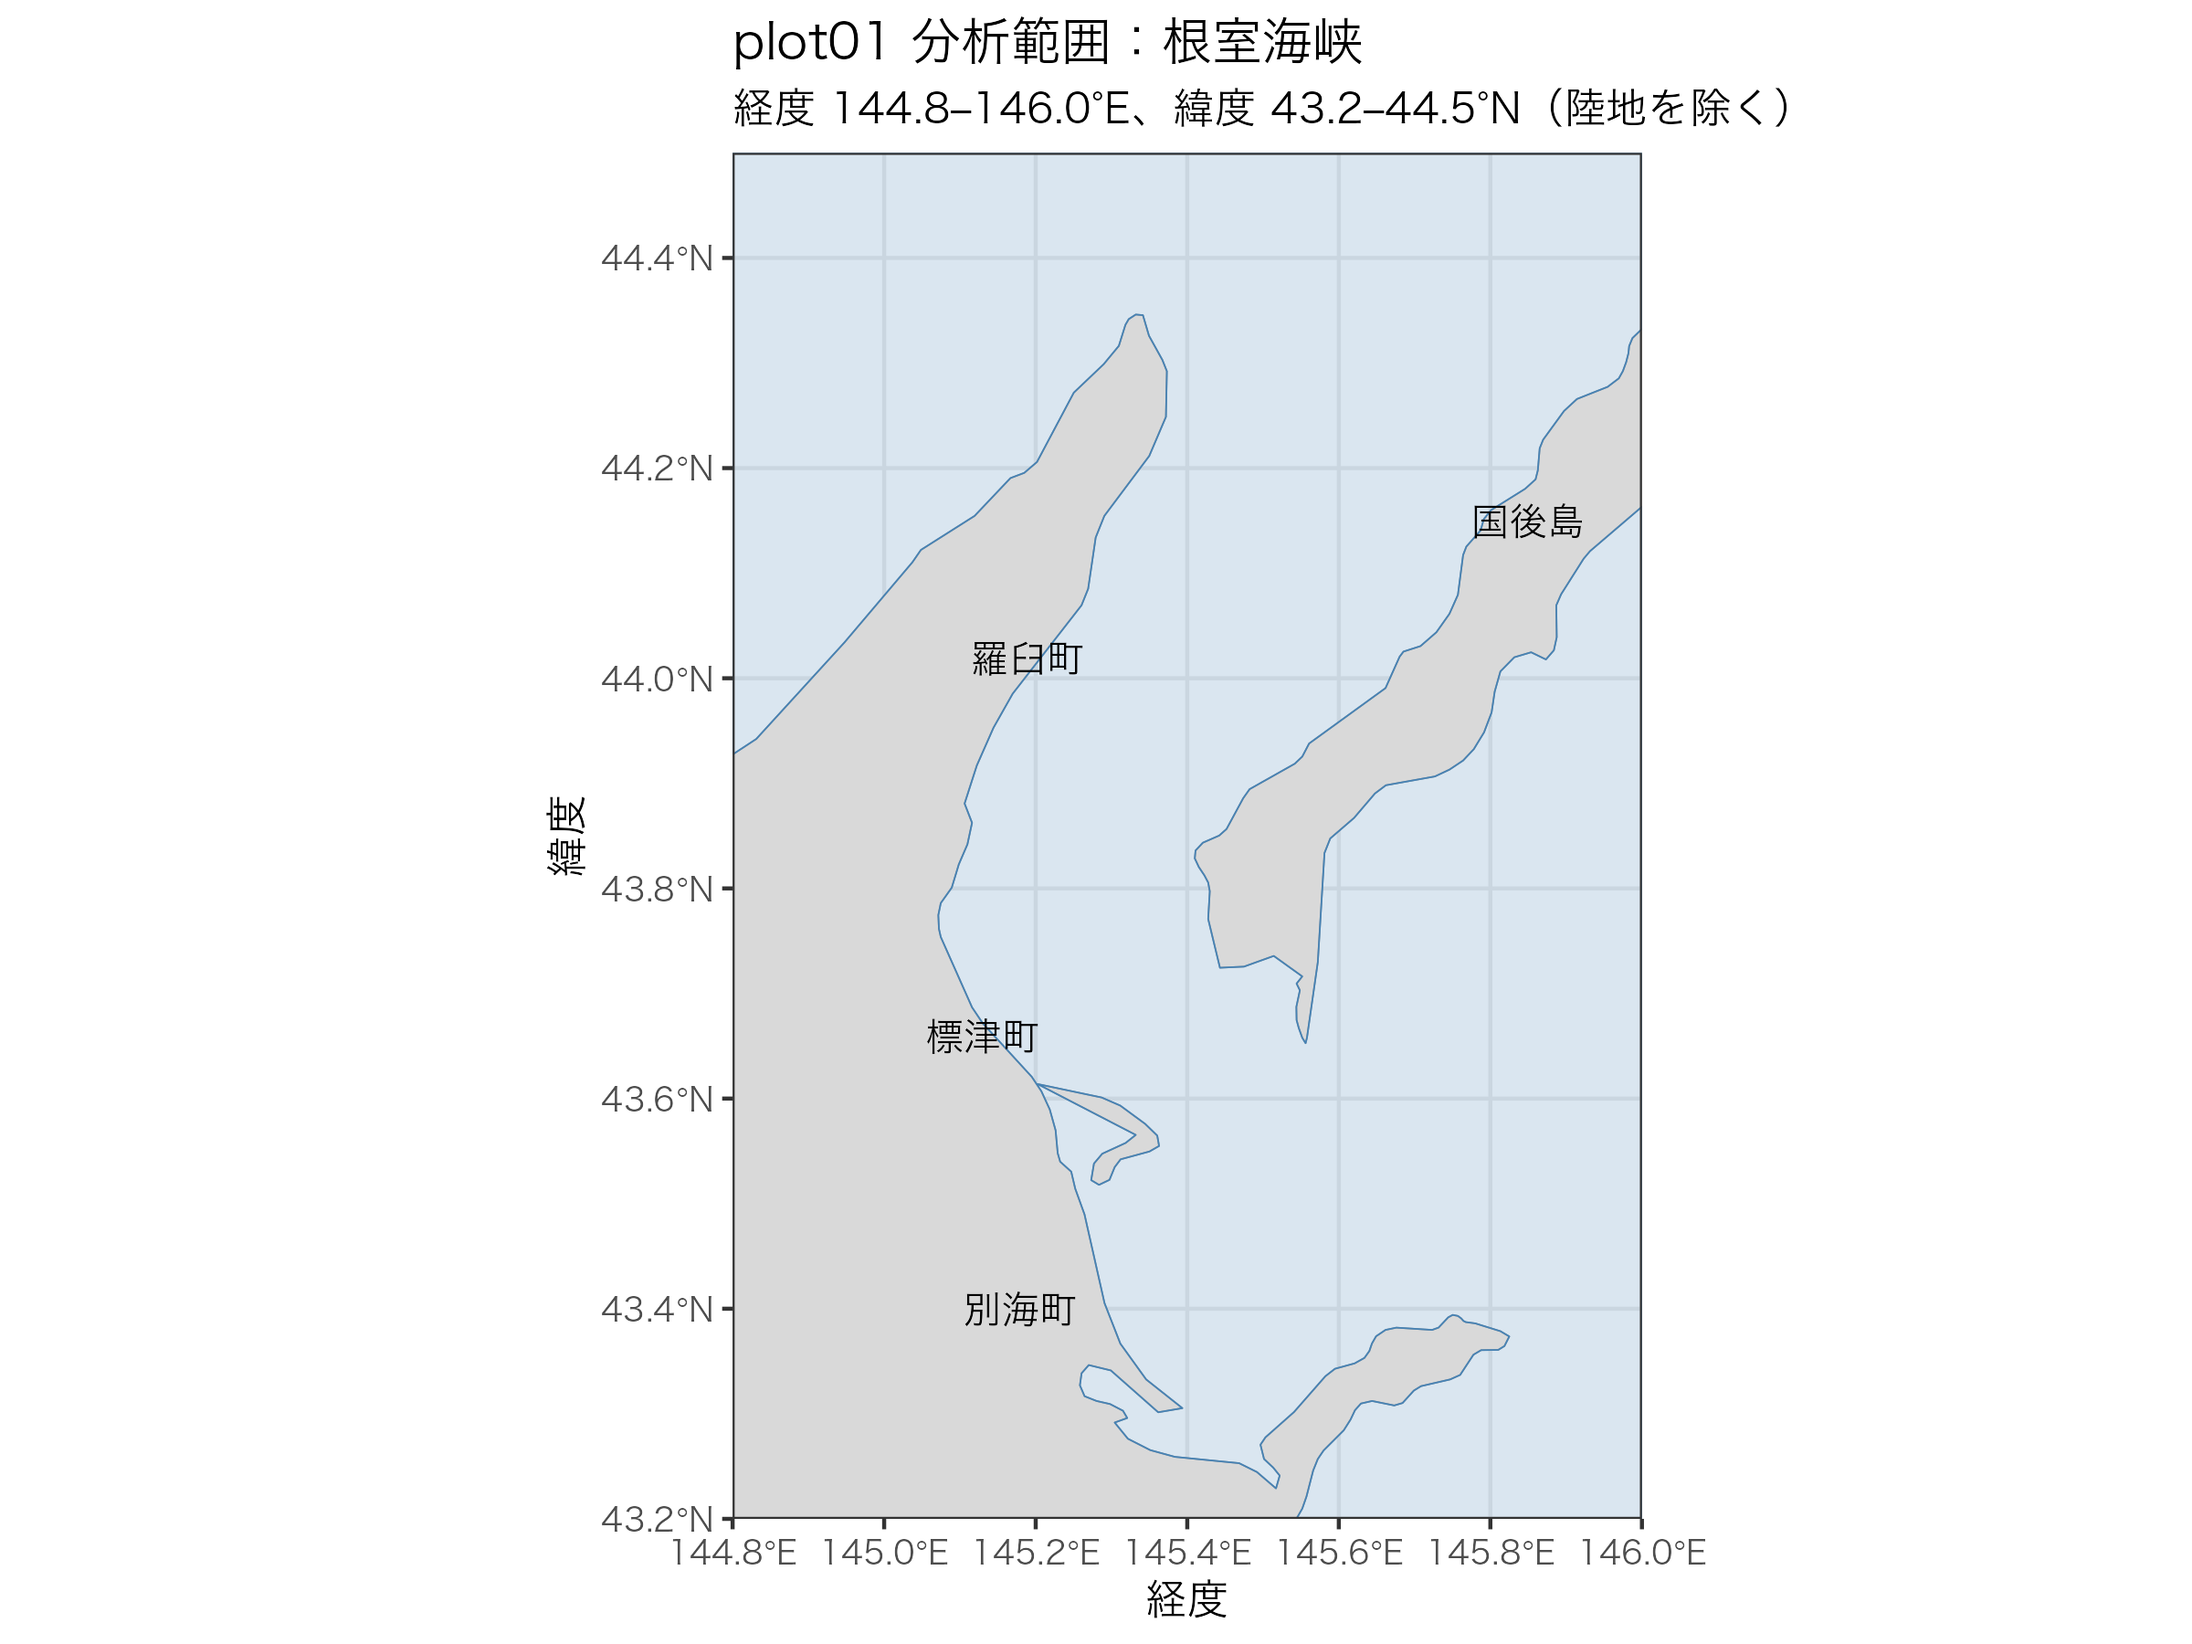
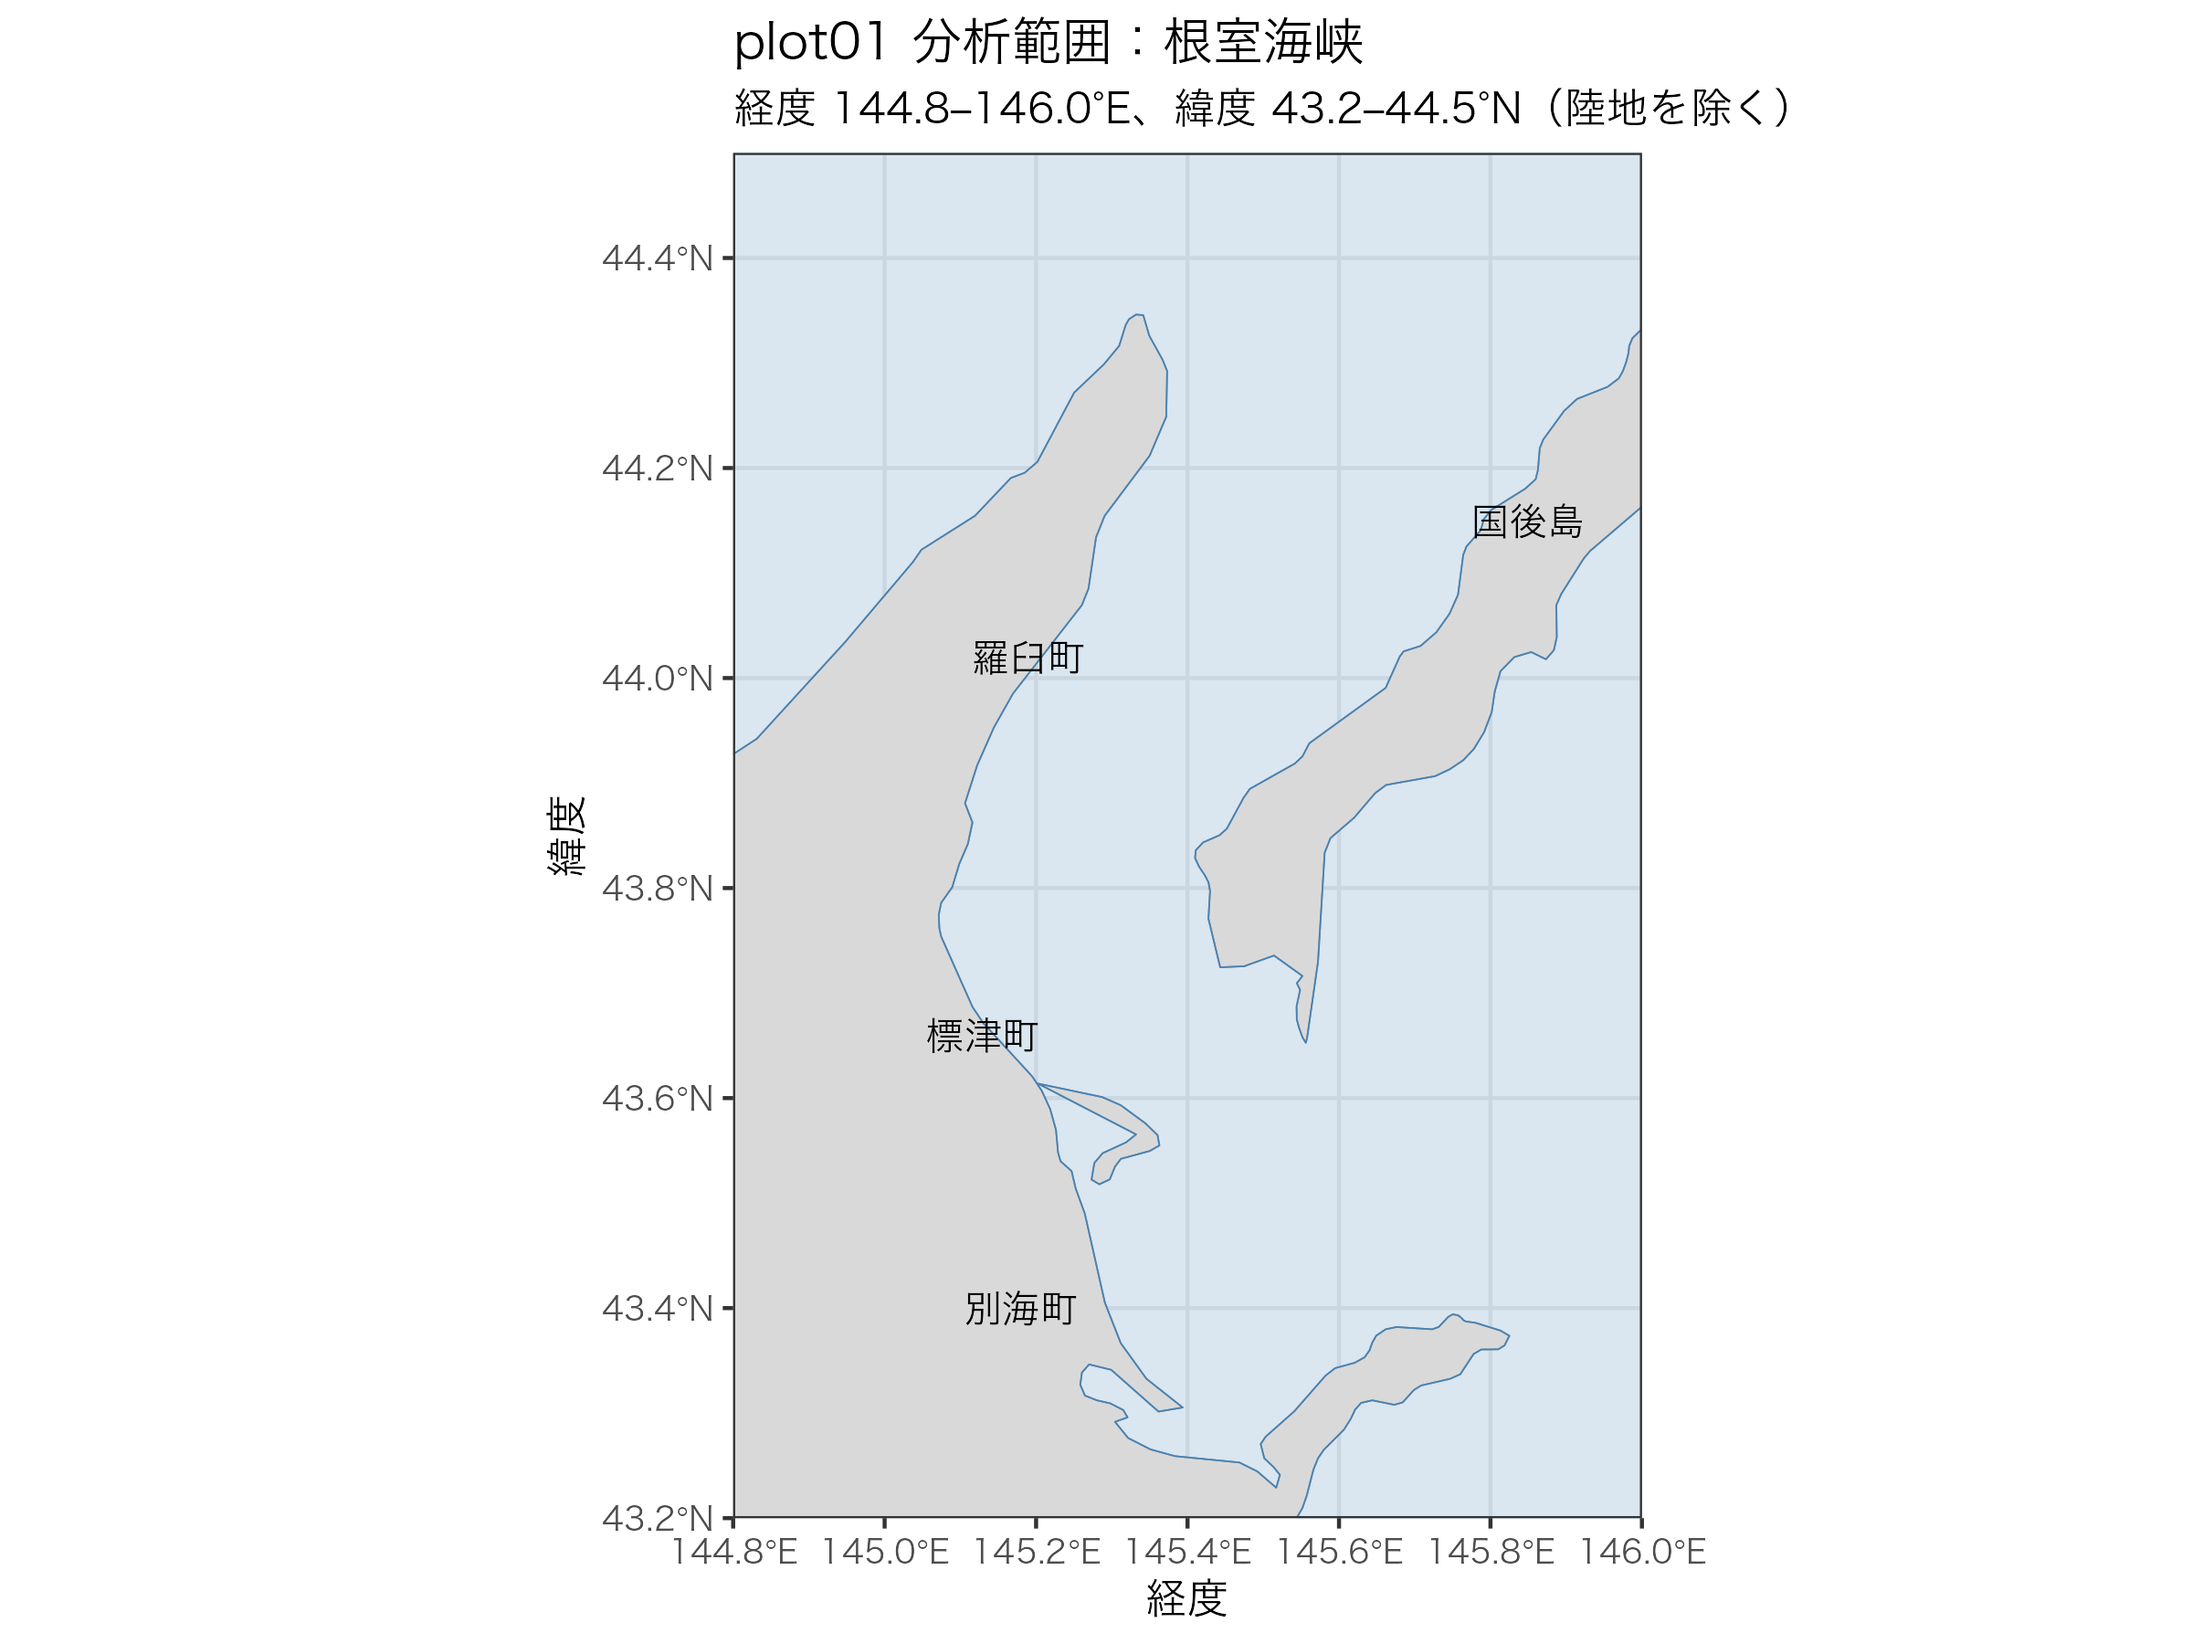
Simplify data loading with arrow and make years incremental
- Extract only years missing locally, so adding 2026 only needs YEARS change
- Filter by bbox columns in arrow instead of parsing every WKT point
- One row per vessel from vessel list (latest year), works for years beyond the list
- Keep fishing depth, distance from shore and speed for RQ2

diff --git a/README.md b/README.md
@@ -14,3 +14,8 @@
 - 図表は `plotNN_<内容>` / `tableNN_<内容>` と名付け、同じ名前で `output/fig`, `output/tables` に保存する（`save_plot()`, `save_table()`）
 - チャンクラベルも同じ名前（`plot01-area`）。見出しは `## plot01 分析範囲`
 - 見出し番号はQuartoの自動採番（`number-sections`）に任せ、手で振らない
+
+## データの追加・環境
+- 年を足すとき：`RussiaNemuro.qmd` の `YEARS` を変える（例：`2018:2026`）。ローカルに無い年だけ共有ドライブから抽出される
+- 抽出列を変えたとき：`data/processed/daily_russian_trawlers/` を消して再レンダリング
+- 読み込みは arrow のみ。Spark を使う場合は Java 11（`~/.Renviron` の `JAVA_HOME` = temurin-11）
